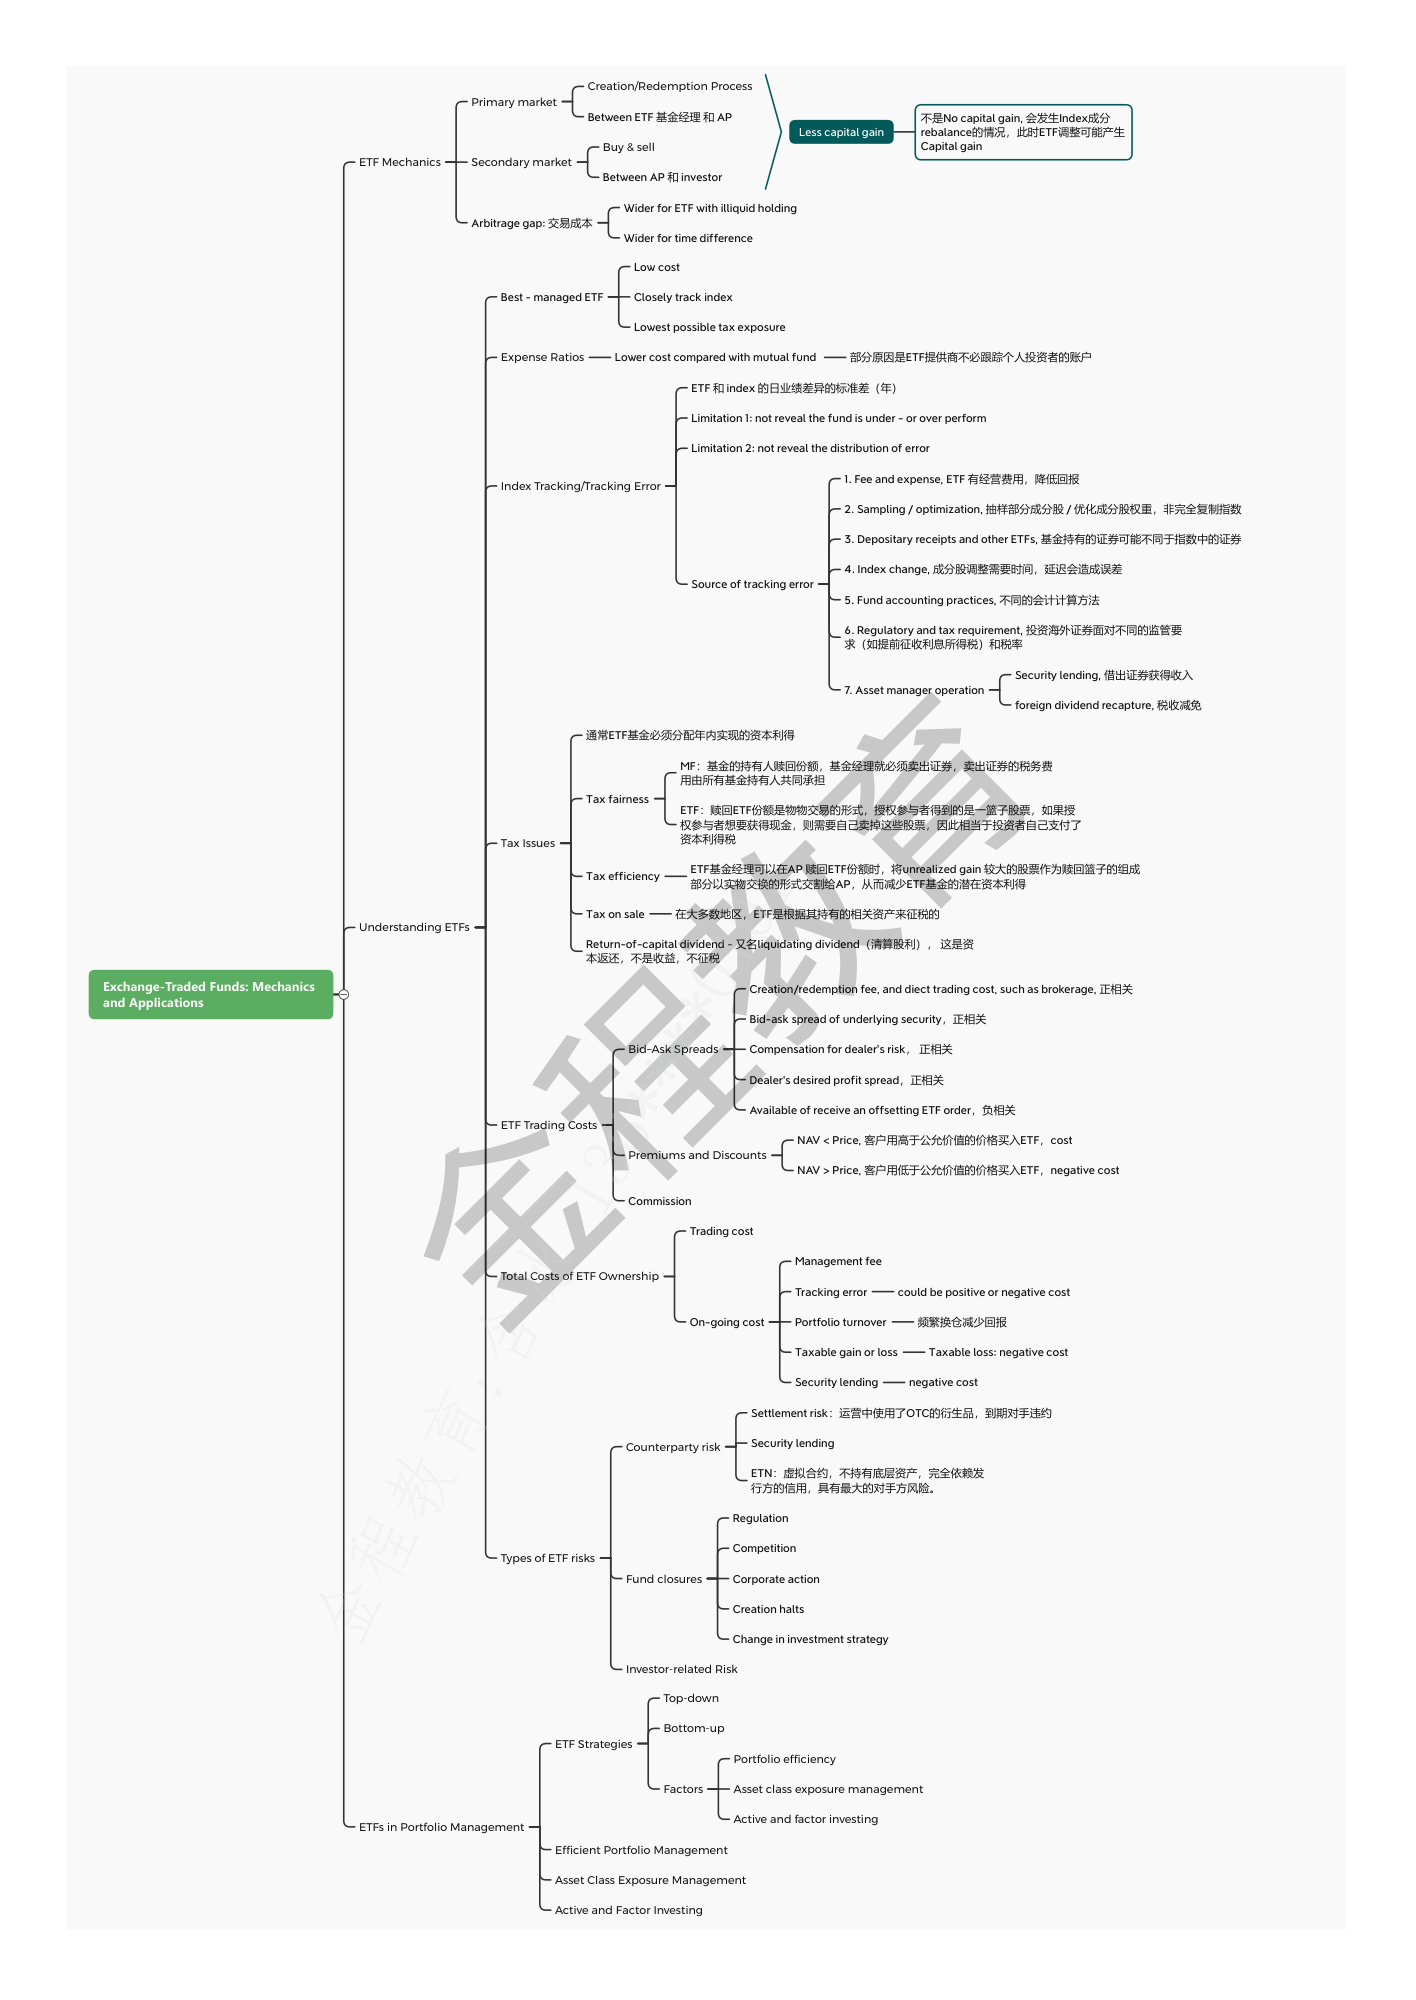
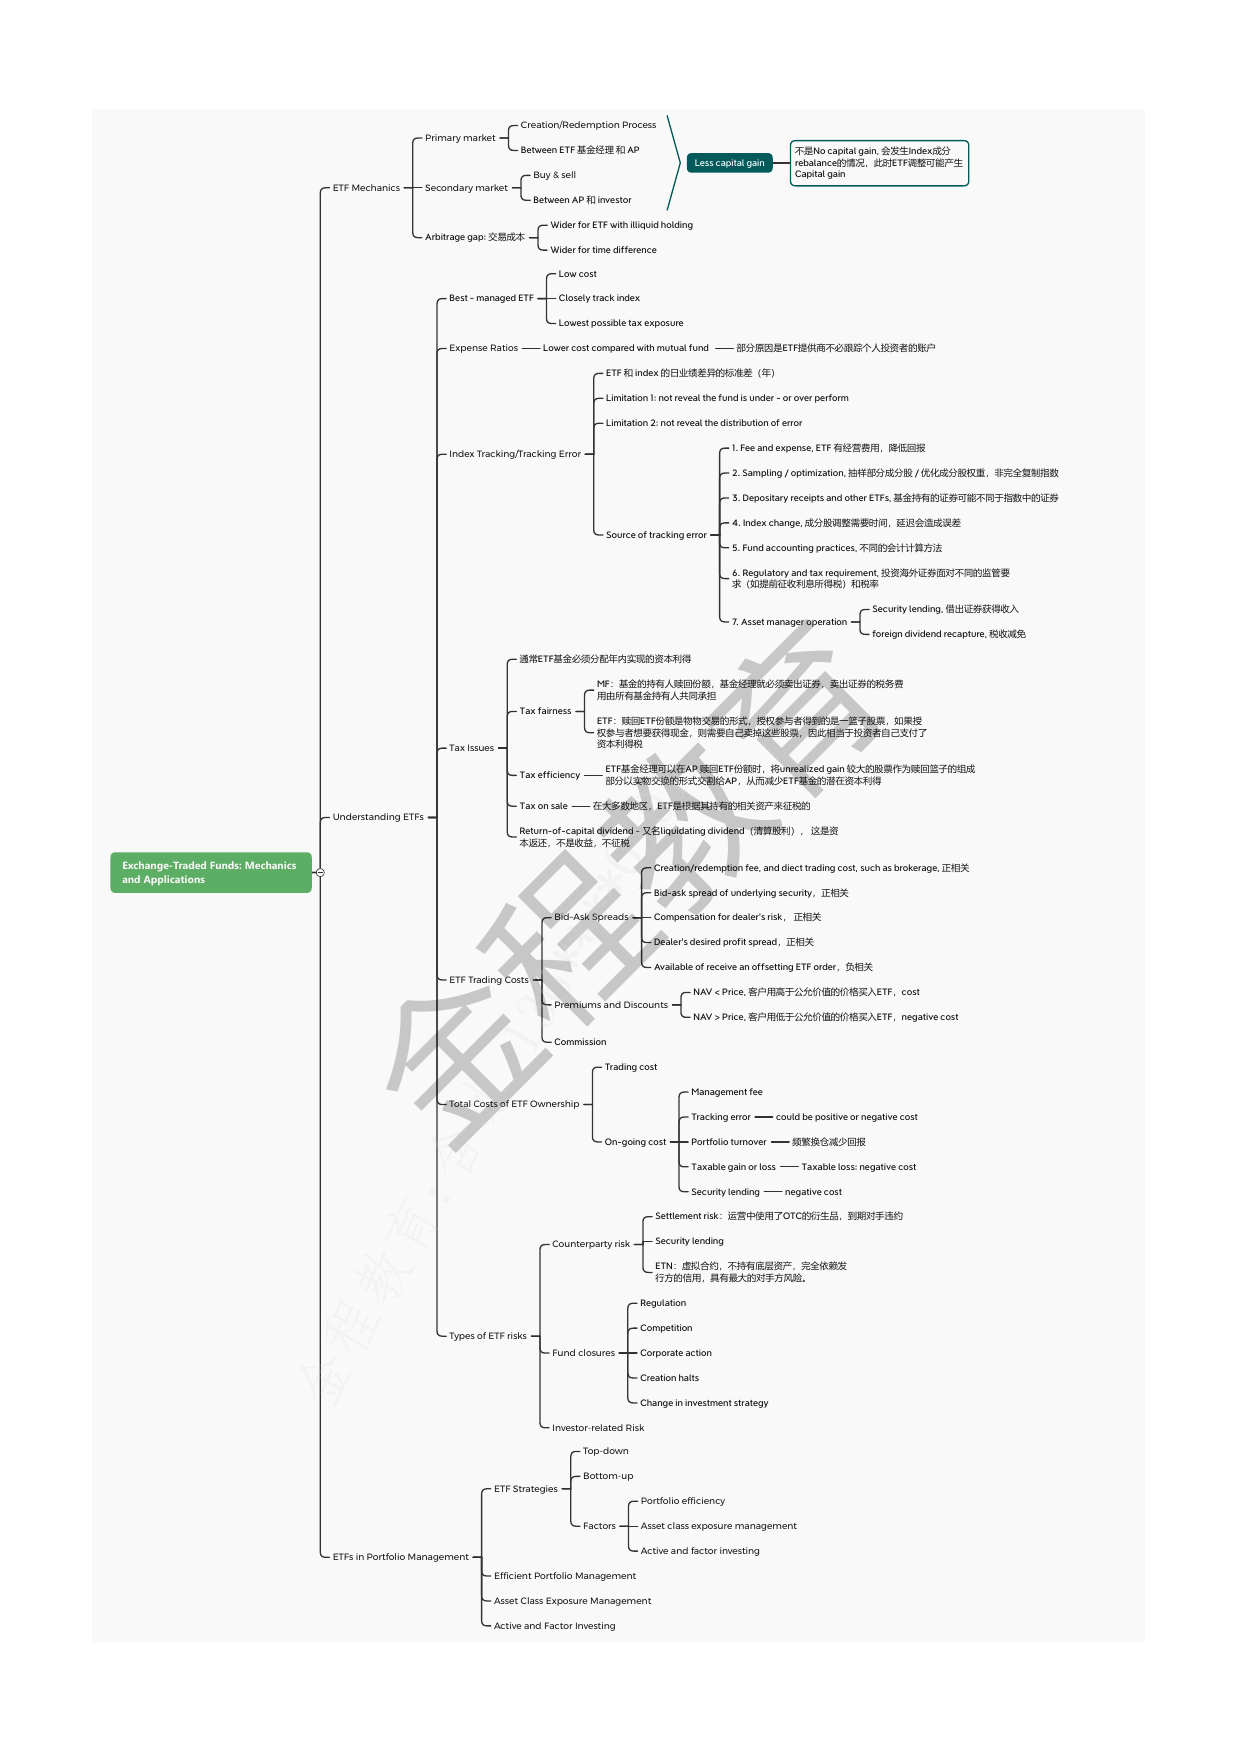
fix PM framework against 金程 组合 PDF (6 pages)
Tree already covered six LMs; OCR (direct trading cost / availability),
drop list-only Trading Costs module not in this PDF, replace PM-1..6
original frames and register in manifest, SW cache v35.

Changed region(s): [[0.0613, 0.0308, 0.8887, 0.7692], [0.3677, 0.6154, 0.7355, 0.9538], [0.7661, 0.4923, 0.7968, 0.5231]]

diff --git a/app/sw.js b/app/sw.js
@@ -1,6 +1,6 @@
 /* 离线壳: 静态资源 cache-first, bank.json network-first (保证题库更新可达) */
 'use strict';
-const CACHE = 'cfa-l2-v34';
+const CACHE = 'cfa-l2-v35';
 const SHELL = ['./', 'index.html', 'app.css', 'app.js', 'fsrs.js', 'store.js', 'mathfmt.js', 'mindmap.js', 'manifest.json', 'icons/icon.svg', 'icons/icon-192.png', 'icons/icon-512.png'];
 
 self.addEventListener('install', e => {
